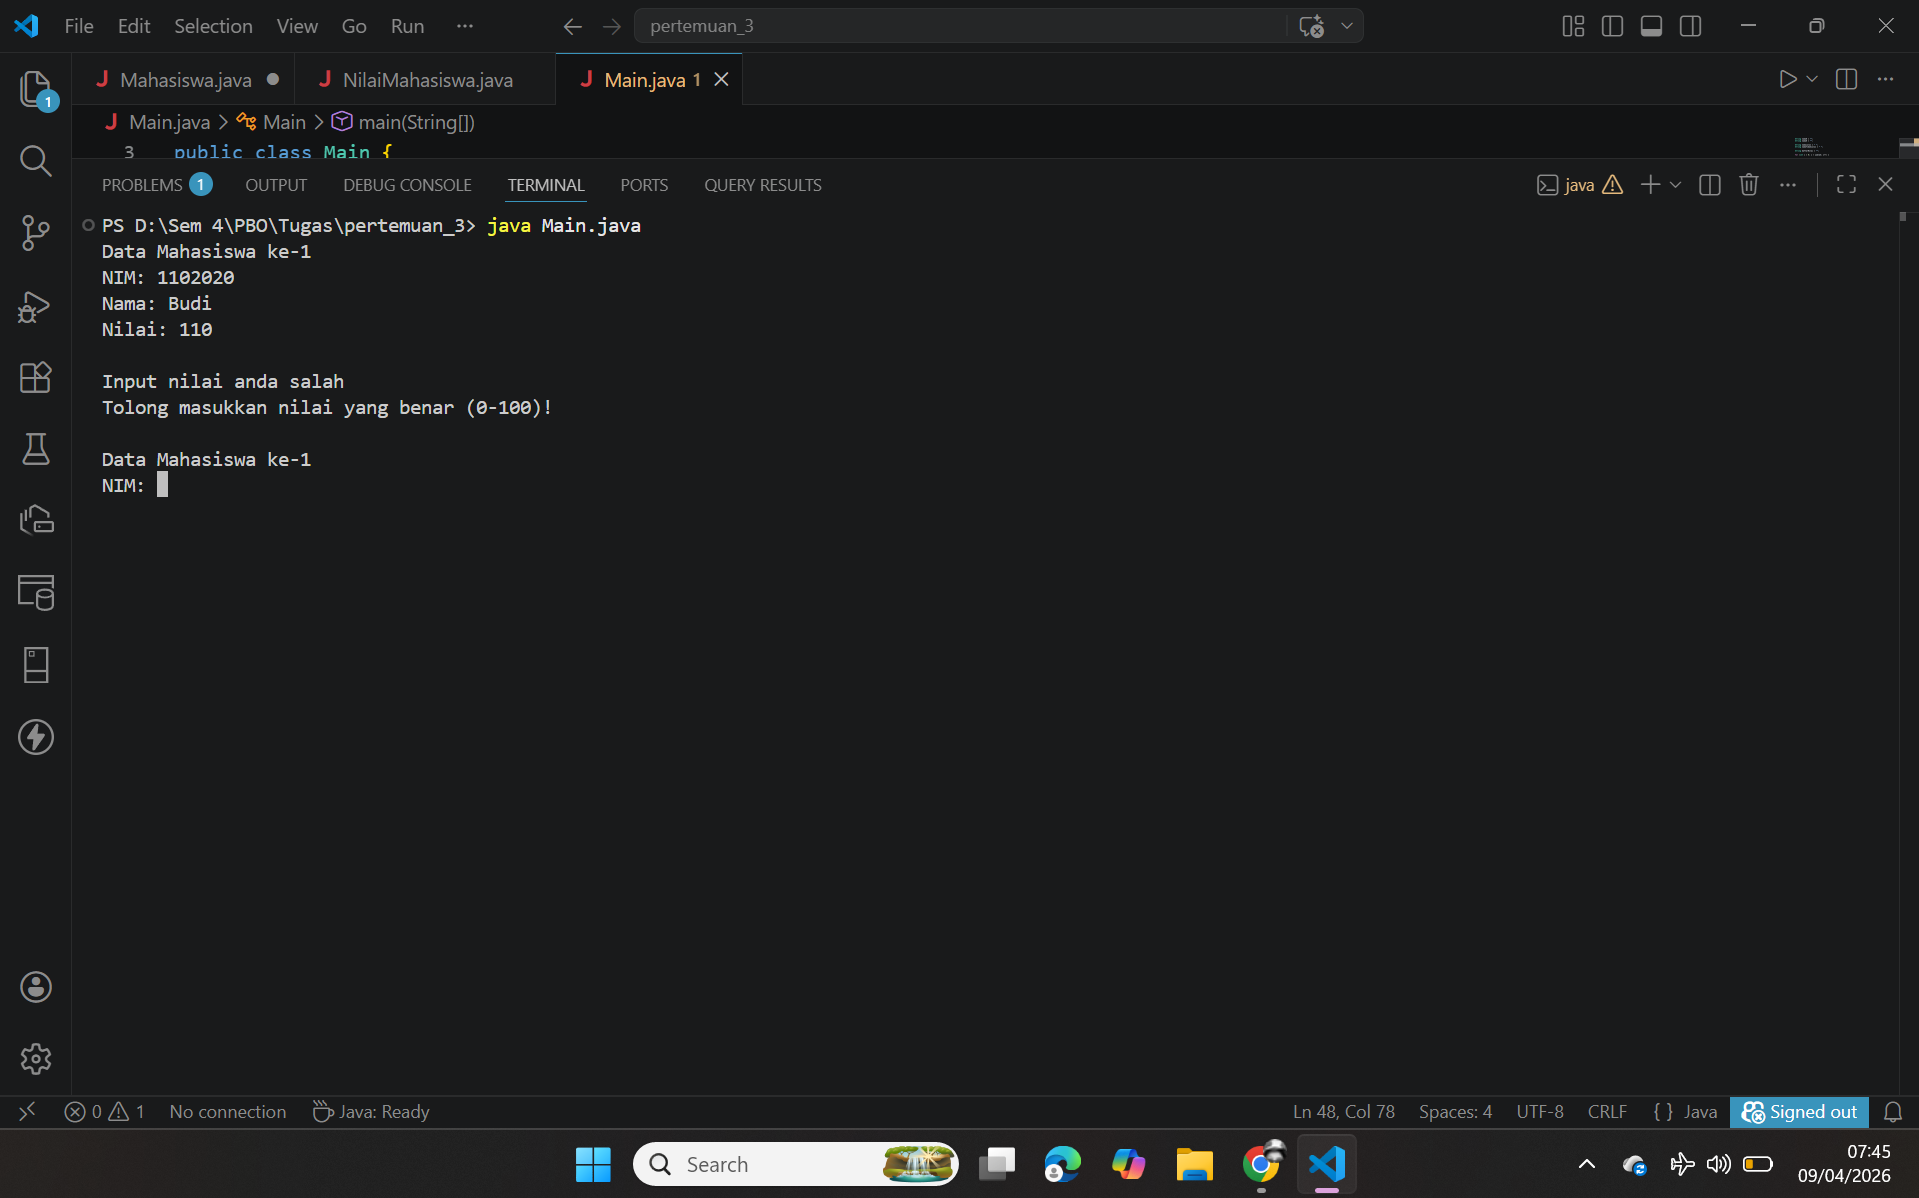
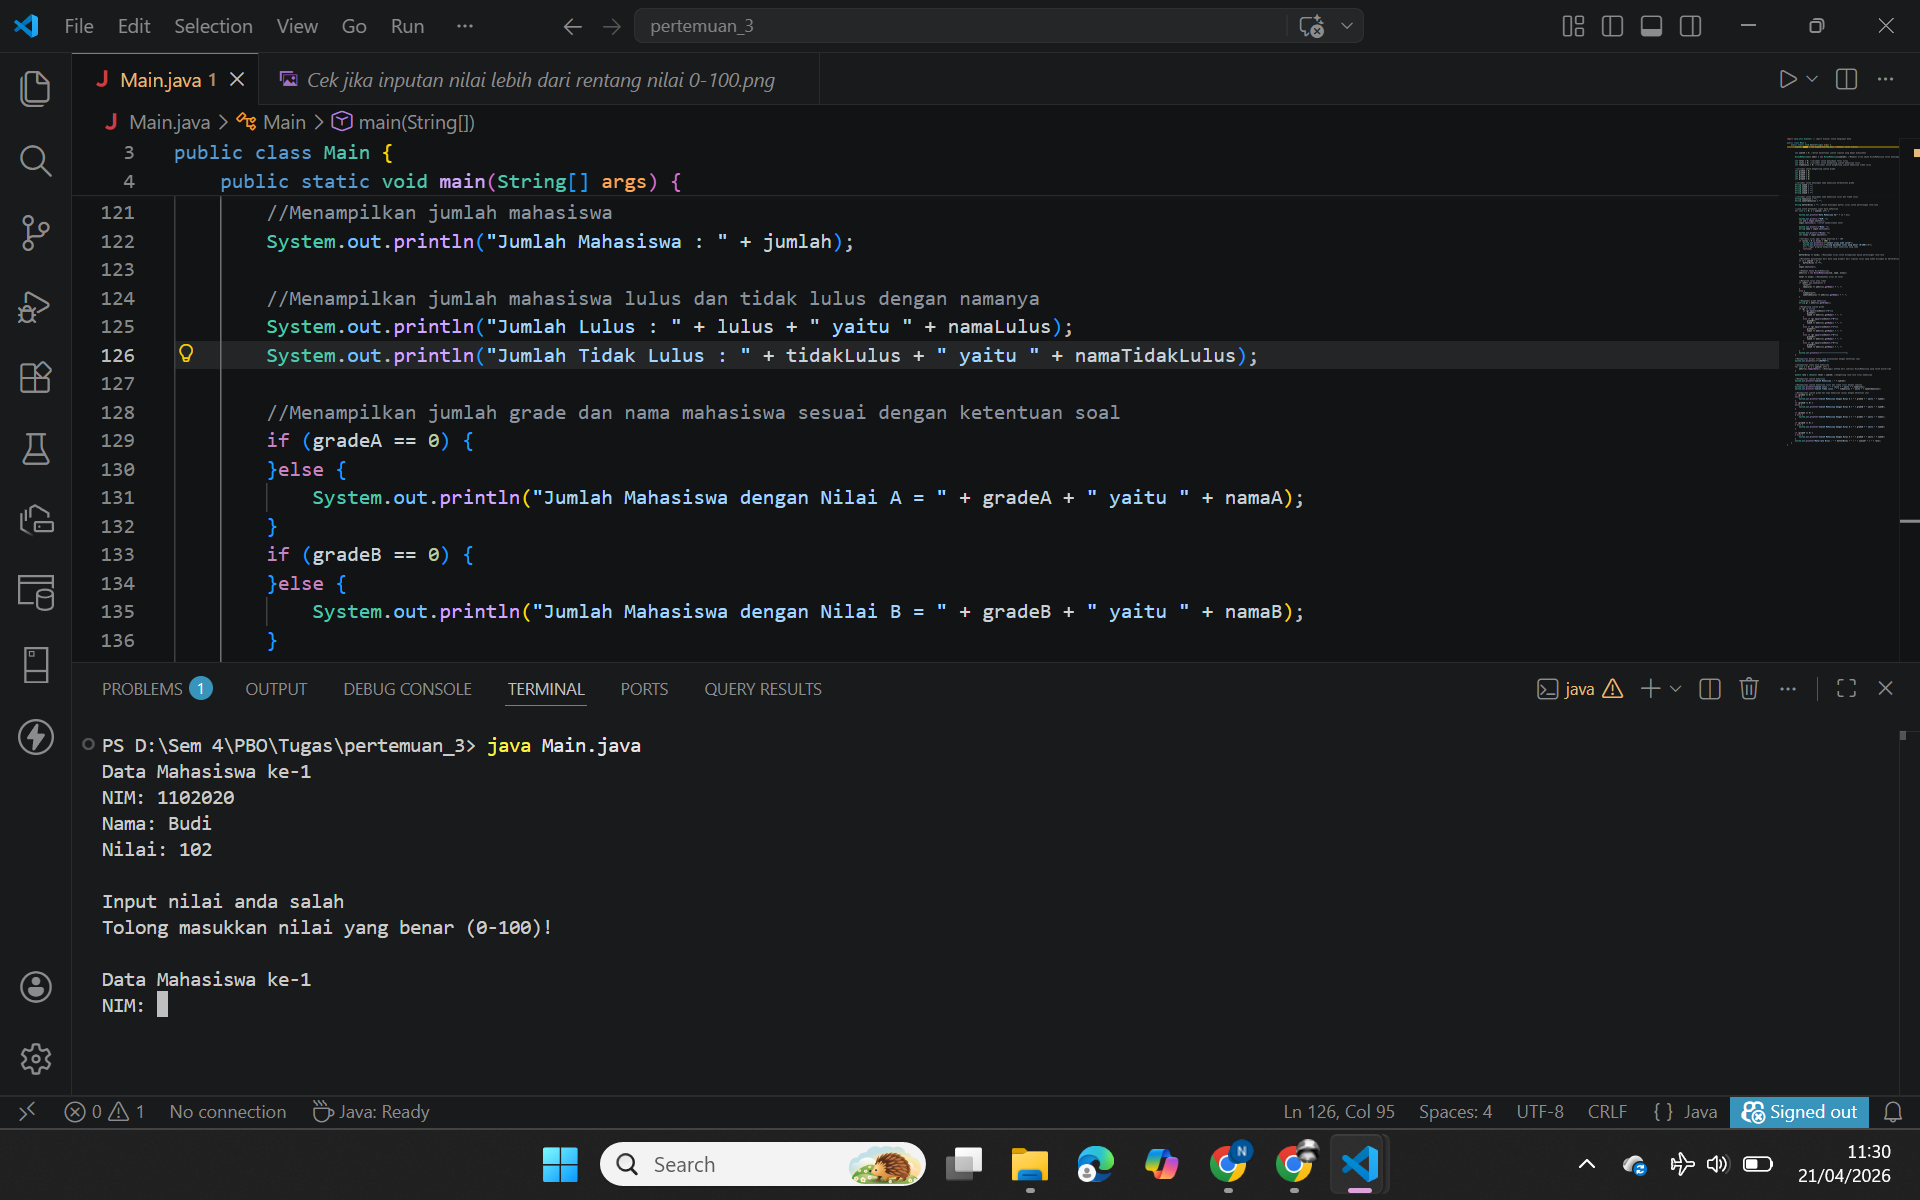
Add files via upload

diff --git a/pertemuan_3/Main.java b/pertemuan_3/Main.java
@@ -127,31 +127,25 @@ public class Main {
         
         //Menampilkan jumlah grade dan nama mahasiswa sesuai dengan ketentuan soal 
         if (gradeA == 0) {
-            System.out.println("Tidak ada mahasiswa yang memiliki grade A");
         }else {
             System.out.println("Jumlah Mahasiswa dengan Nilai A = " + gradeA + " yaitu " + namaA);
         }
-
         if (gradeB == 0) {
-            System.out.println("Tidak ada mahasiswa yang memiliki grade B");
         }else {
             System.out.println("Jumlah Mahasiswa dengan Nilai B = " + gradeB + " yaitu " + namaB);
         }
         
         if (gradeC == 0) {
-            System.out.println("Tidak ada mahasiswa yang memiliki grade C");
         } else {
             System.out.println("Jumlah Mahasiswa dengan Nilai C = " + gradeC + " yaitu " + namaC);
         }
         
         if (gradeD == 0) {
-            System.out.println("Tidak ada mahasiswa yang memiliki grade D");
         } else {
             System.out.println("Jumlah Mahasiswa dengan Nilai D = " + gradeD + " yaitu " + namaD);
         }
         
         if (gradeE == 0) {
-            System.out.println("Tidak ada mahasiswa yang memiliki grade E");
         } else {
             System.out.println("Jumlah Mahasiswa dengan Nilai E = " + gradeE + " yaitu " + namaE);
         }
